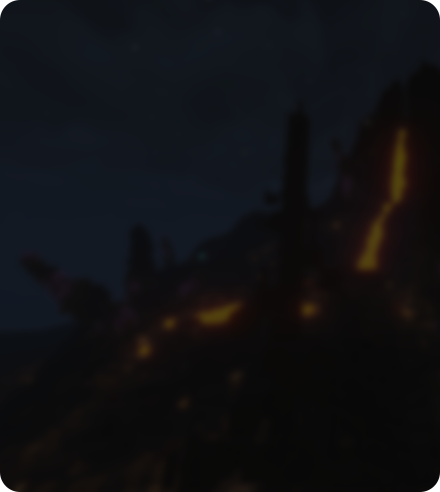
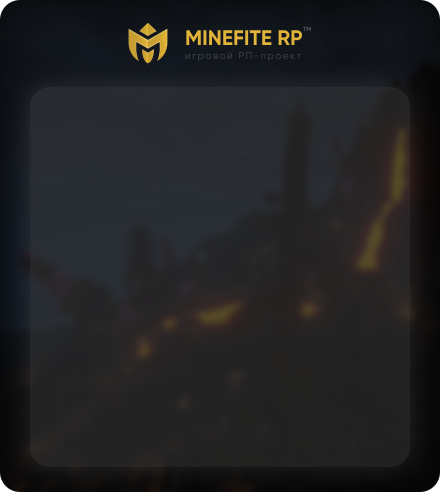
NewYear edition

diff --git a/runtime/scenes/login/fastlogin.css b/runtime/scenes/login/fastlogin.css
@@ -7,9 +7,10 @@
     -fx-background-image: url('../../images/fastlogin/auth.png');
 }
 
-#authPane {
-    -fx-background-color: rgba(53, 53, 53, 0.50);
-    -fx-background-radius: 18px;
+#authButton:hover {
+    -fx-background-color: transparent;
+    -fx-background-repeat: no-repeat;
+    -fx-background-image: url('../../images/fastlogin/auth_hover.png');
 }
 
 .accountButton-hovered,
@@ -43,6 +44,7 @@
     -fx-background-color: transparent;
 }
 
+#addAccountButton:hover,
 .serverImage:hover,
 .exitButton:hover {
     -fx-effect: dropshadow(three-pass-box, rgba(0,0,0,0.8), 15, 0, 0, 0);
@@ -68,4 +70,28 @@
 .scroll-bar:vertical .corner {
     -fx-background-insets: 2.0, 0.0, 0.0;
     -fx-background-radius: 2.0em;
+}
+
+.tm-1,
+.tm-2,
+.tm-3,
+.tm-4 {
+    -fx-background-color: transparent;
+    -fx-background-repeat: no-repeat;
+}
+
+.tm-1 {
+    -fx-background-image: url('../../images/fastlogin/newyear/1.png');
+}
+
+.tm-2 {
+    -fx-background-image: url('../../images/fastlogin/newyear/2.png');
+}
+
+.tm-3 {
+    -fx-background-image: url('../../images/fastlogin/newyear/3.png');
+}
+
+.tm-3 {
+    -fx-background-image: url('../../images/fastlogin/newyear/4.png');
 }

diff --git a/src/main/java/com/zeydie/launcher/scene/FastLoginScene.java b/src/main/java/com/zeydie/launcher/scene/FastLoginScene.java
@@ -4,6 +4,7 @@ import com.zeydie.launcher.Accounts;
 import com.zeydie.launcher.components.AccountScroll;
 import com.zeydie.launcher.config.AccountsConfig;
 import javafx.scene.control.Button;
+import javafx.scene.layout.Pane;
 import lombok.Getter;
 import lombok.NonNull;
 import lombok.Setter;
@@ -15,14 +16,22 @@ import pro.gravit.launcher.client.gui.helper.LookupHelper;
 import pro.gravit.launcher.client.gui.impl.ContextHelper;
 import pro.gravit.launcher.client.gui.scenes.AbstractScene;
 
+import java.util.Arrays;
+import java.util.Timer;
+import java.util.TimerTask;
+
 public final class FastLoginScene extends AbstractScene {
     private AccountScroll accountsScroll;
     private Button addAccountButton;
     private Button authButton;
+    private Pane newyearPane;
     @Setter
     @Getter
     @Nullable
     private AccountsConfig.Account selectedAccount;
+
+    private final Timer timer = new Timer();
+    private int scene = 1;
 
     public FastLoginScene(@NonNull final JavaFXApplication application) {
         super("scenes/login/fastlogin.fxml", application);
@@ -43,10 +52,25 @@ public final class FastLoginScene extends AbstractScene {
         this.addAccountButton.setOnAction(event -> switchToLoginning());
         this.authButton.setOnAction(event -> switchAuth());
 
-        if (Accounts.getAccountsConfig().getAccounts().isEmpty()) {
+        this.newyearPane = LookupHelper.lookup(super.layout, "#newyearPane");
+
+        if (Accounts.getAccountsConfig().getAccounts().isEmpty())
             this.switchToLoginning();
-            return;
-        }
+
+        this.timer.scheduleAtFixedRate(new TimerTask() {
+            @Override
+            public void run() {
+                /*if (!(JavaFXApplication.getInstance().getCurrentScene() instanceof FastLoginScene))
+                    this.cancel();*/
+
+                newyearPane.getStyleClass().clear();
+                newyearPane.getStyleClass().add("tm-" + scene);
+
+                scene += 1;
+
+                if (scene > 3) scene = 1;
+            }
+        }, 0, 1000);
     }
 
     @Override

diff --git a/src/main/java/com/zeydie/launcher/Reference.java b/src/main/java/com/zeydie/launcher/Reference.java
@@ -21,7 +21,7 @@ import java.util.Optional;
 import java.util.UUID;
 
 public final class Reference {
-    public static final Path launcherDirectory = DirBridge.dir;
+    public static final Path launcherDirectory = DirBridge.defaultUpdatesDir;
 
     public static final Path accountConfig = launcherDirectory.resolve("accounts.cfg");
 
@@ -95,7 +95,8 @@ public final class Reference {
     }
 
     public static boolean isPlayerServer(final int serverId) {
-        @NonNull final JavaFXApplication javaFXApplication = JavaFXApplication.getInstance();
+        return true;
+        /*@NonNull final JavaFXApplication javaFXApplication = JavaFXApplication.getInstance();
         @NonNull final RuntimeSettings runtimeSettings = javaFXApplication.runtimeSettings;
 
         @NonNull final List<AccountsConfig.Account> accountList = Accounts.getAccountsConfig().getAccounts();
@@ -103,7 +104,7 @@ public final class Reference {
                 .filter(account -> account.getOauthAccessToken().equals(runtimeSettings.oauthAccessToken) && account.getOauthRefreshToken().equals(runtimeSettings.oauthRefreshToken))
                 .findAny();
 
-        return filtered.filter(account -> account.getServerId() == serverId || account.getServerId() == -1).isPresent();
+        return filtered.filter(account -> account.getServerId() == serverId || account.getServerId() == -1).isPresent();*/
     }
 
     @SneakyThrows

diff --git a/src/main/java/com/zeydie/launcher/config/AccountsConfig.java b/src/main/java/com/zeydie/launcher/config/AccountsConfig.java
@@ -4,6 +4,7 @@ import com.zeydie.launcher.Reference;
 import com.zeydie.sgson.SGsonFile;
 import lombok.Data;
 import lombok.NonNull;
+import org.jetbrains.annotations.NotNull;
 import pro.gravit.launcher.LauncherNetworkAPI;
 import pro.gravit.launcher.client.gui.JavaFXApplication;
 import pro.gravit.launcher.client.gui.config.RuntimeSettings;
@@ -41,7 +42,10 @@ public final class AccountsConfig {
     }
 
     public void save() {
-        new SGsonFile(Reference.accountConfig).writeJsonFile(this);
+        @NotNull final SGsonFile file = new SGsonFile(Reference.accountConfig);
+
+        file.getFile().mkdirs();
+        file.writeJsonFile(this);
     }
 
     @Data

diff --git a/src/main/java/pro/gravit/launcher/client/gui/scenes/login/LoginScene.java b/src/main/java/pro/gravit/launcher/client/gui/scenes/login/LoginScene.java
@@ -444,11 +444,7 @@ public class LoginScene extends AbstractScene {
         }
 
         public void hideOverlay(double delay, EventHandler<ActionEvent> onFinished) {
-            contextHelper.runInFxThread(() -> {
-                switchScene(application.gui.fastLoginScene);
-                currentStage.stage.centerOnScreen();
-            });
-            //LoginScene.this.hideOverlay(delay, onFinished);
+            LoginScene.this.hideOverlay(delay, onFinished);
         }
 
         public AuthService getAuthService() {
